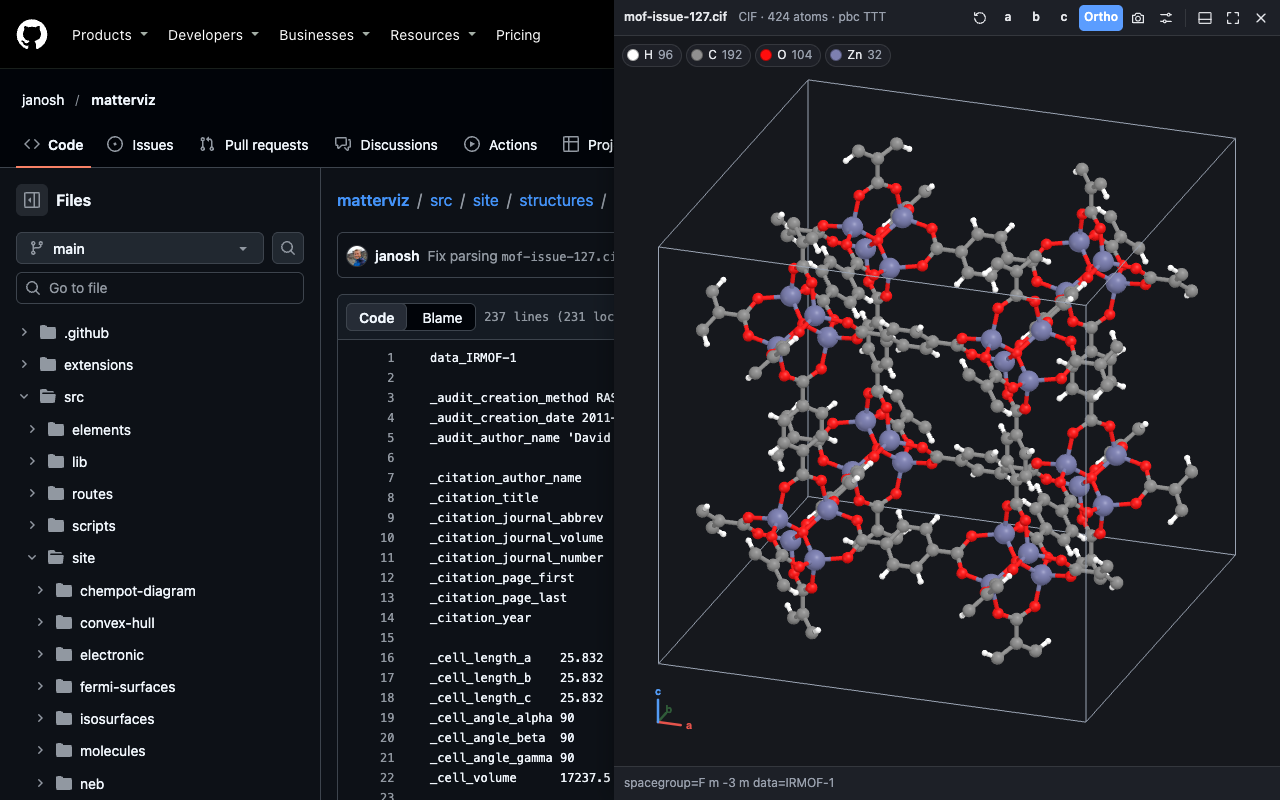
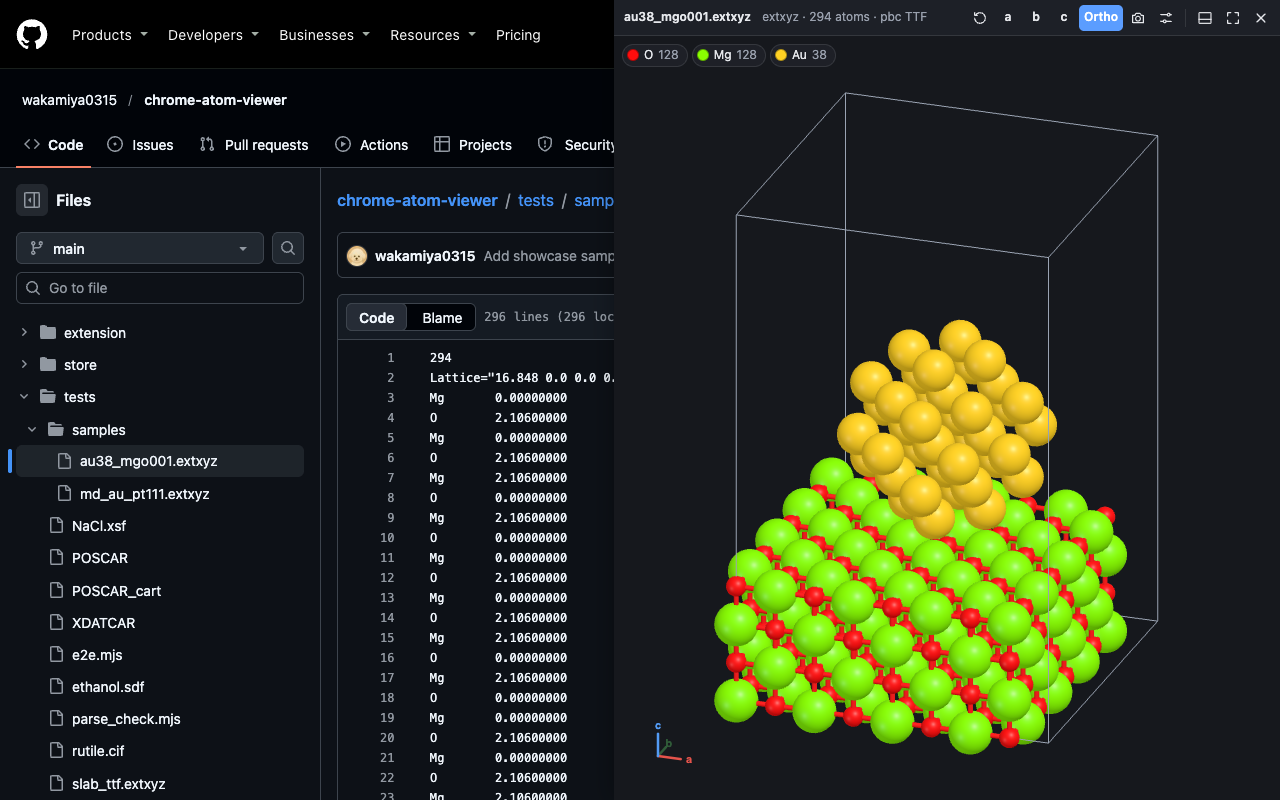
Use this repository's own structures for the store screenshots
- tools/store_assets.mjs renders the screenshots from
  github.com/wakamiya0315/chrome-atom-viewer pages: Au38 on MgO(001),
  rutile 2x2x3 with an O-Ti-O angle, and the Au/Pt(111) MD trajectory
- tests/e2e.mjs uses this repository's test files instead of a
  third-party repository
- README: credit tools/make_samples.py; document tests/samples

diff --git a/README.md b/README.md
@@ -77,8 +77,10 @@ tests/
   parse_check.mjs    node tests/parse_check.mjs tests/rutile.cif   (prints what the parser read)
   e2e.mjs            node tests/e2e.mjs extension tests            (headless Chrome, throwaway profile)
   *.xyz, *.cif, ...  small fixtures
+  samples/           larger showcase structures (Au38 on MgO(001), Au/Pt(111) MD trajectory)
 tools/
   make_icons.py      python3 tools/make_icons.py extension/icons store/icon-512.png   (needs Pillow)
+  make_samples.py    uv run --with ase python tools/make_samples.py   (regenerates tests/samples/)
   store_assets.mjs   node tools/store_assets.mjs     (Web Store screenshots + promo tile into store/)
   package.sh         sh tools/package.sh             (dist/atom-viewer-<version>.zip for upload)
 store/               Web Store images and listing text (listing.md)
@@ -98,7 +100,7 @@ The viewer page also works on its own. Serve the repository root over HTTP and o
 
 - [three.js](https://threejs.org/) (MIT), vendored in `extension/vendor/three/`
 - Jmol element colours; covalent radii from Cordero et al., *Dalton Trans.* 2008 (the same set ASE uses)
-- Screenshots use sample files from [janosh/matterviz](https://github.com/janosh/matterviz) (MIT)
+- Screenshots show this repository's own test structures; the showcase samples in `tests/samples/` are generated from scratch with [ASE](https://wiki.fysik.dtu.dk/ase/) by `tools/make_samples.py`
 
 ## License
 
